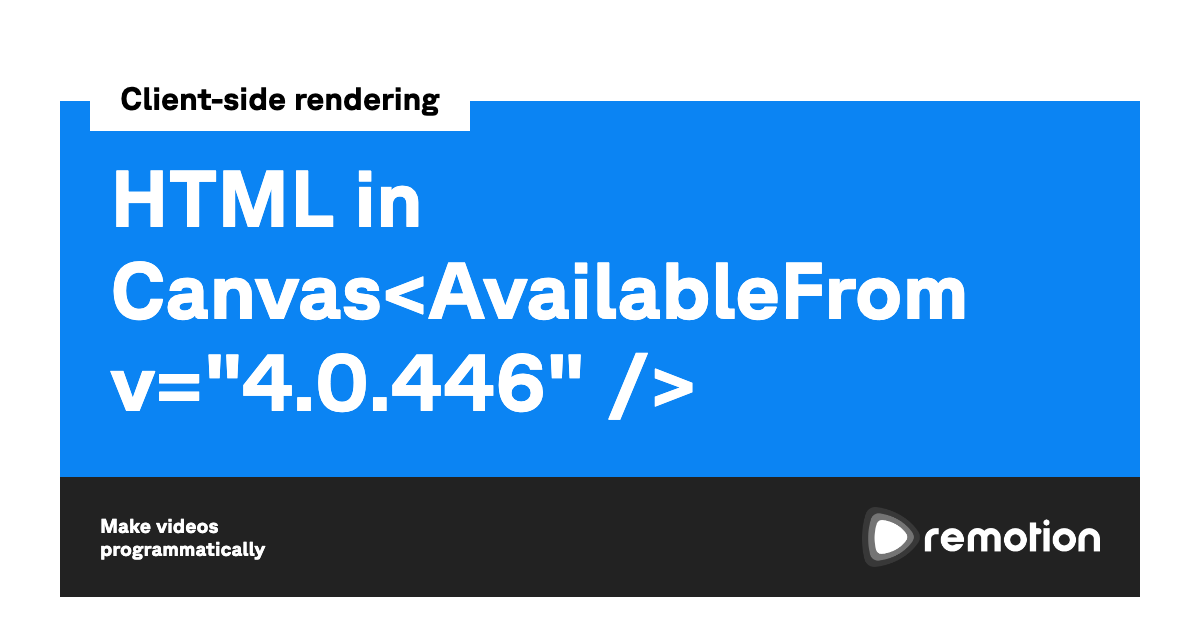
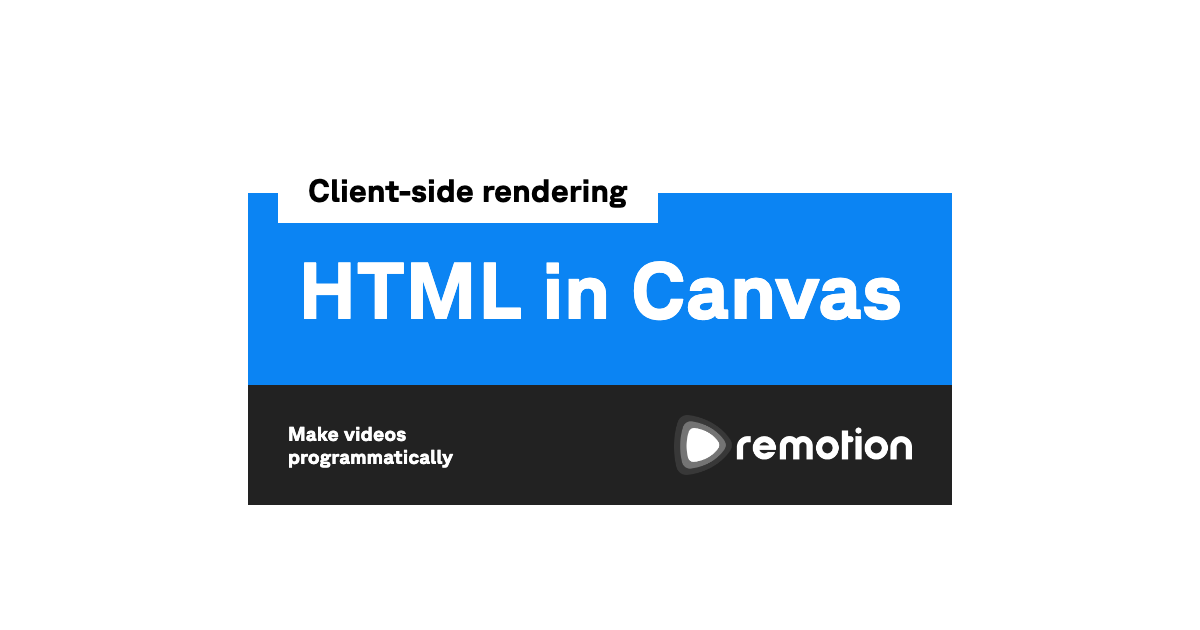
@remotion/web-renderer: Standardize HTML-in-canvas copy and sync docs
Use HTML-in-canvas consistently in logs, Studio, CLI, and docs; refresh
the HTML-in-canvas social card and articles entry; drop the Options alias
from MDX; point allow-html-in-canvas at the client-side-rendering guide.

Made-with: Cursor

diff --git a/packages/docs/src/data/articles.ts b/packages/docs/src/data/articles.ts
@@ -819,6 +819,15 @@ export const articles = [
 		slug: 'client-side-rendering/how-it-works',
 	},
 	{
+		id: 'client-side-rendering/html-in-canvas',
+		title: 'HTML-in-canvas',
+		relativePath: 'docs/client-side-rendering/html-in-canvas.mdx',
+		compId: 'articles-docs-client-side-rendering-html-in-canvas',
+		crumb: 'Client-side rendering',
+		noAi: false,
+		slug: 'client-side-rendering/html-in-canvas',
+	},
+	{
 		id: 'client-side-rendering/index',
 		title: 'Client-side rendering',
 		relativePath: 'docs/client-side-rendering/index.mdx',
@@ -853,15 +862,6 @@ export const articles = [
 		crumb: 'Client-side rendering',
 		noAi: false,
 		slug: 'client-side-rendering/telemetry',
-	},
-	{
-		id: 'client-side-rendering/html-in-canvas',
-		title: 'HTML in Canvas<AvailableFrom v="4.0.447" />',
-		relativePath: 'docs/client-side-rendering/html-in-canvas.mdx',
-		compId: 'articles-docs-client-side-rendering-html-in-canvas',
-		crumb: 'Client-side rendering',
-		noAi: false,
-		slug: 'client-side-rendering/html-in-canvas',
 	},
 	{
 		id: 'clipper',

diff --git a/packages/renderer/src/options/allow-html-in-canvas.tsx b/packages/renderer/src/options/allow-html-in-canvas.tsx
@@ -5,21 +5,21 @@ let allowHtmlInCanvasEnabled = false;
 const cliFlag = 'allow-html-in-canvas' as const;
 
 export const allowHtmlInCanvasOption = {
-	name: 'Allow HTML-in-Canvas for client-side rendering',
+	name: 'Allow HTML-in-canvas for client-side rendering',
 	cliFlag,
 	description: () => (
 		<>
 			When client-side rendering is enabled in the Studio, allow the
-			experimental Chromium HTML-in-Canvas API to be used for capturing frames.
+			experimental Chromium HTML-in-canvas API to be used for capturing frames.
 			See{' '}
-			<a href="https://www.remotion.dev/docs/client-side-rendering/html-in-canvas">
-				HTML in Canvas docs
+			<a href="/docs/client-side-rendering/html-in-canvas">
+				HTML-in-canvas docs
 			</a>
 			.
 		</>
 	),
 	ssrName: null,
-	docLink: 'https://www.remotion.dev/docs/config#setallowhtmlincanvasenabled',
+	docLink: 'https://www.remotion.dev/docs/client-side-rendering/html-in-canvas',
 	type: false as boolean,
 	getValue: ({commandLine}) => {
 		if (commandLine[cliFlag] !== null) {

diff --git a/packages/web-renderer/src/render-still-on-web.tsx b/packages/web-renderer/src/render-still-on-web.tsx
@@ -82,12 +82,12 @@ async function internalRenderStillOnWeb<
 		if (outcome.native) {
 			Internals.Log.warn(
 				{logLevel, tag: '@remotion/web-renderer'},
-				'Using Chromium experimental HTML-in-Canvas (drawElementImage) for this frame. Pixels may differ from the built-in DOM composer. Set allowHtmlInCanvas: false to force software rasterization. See https://github.com/WICG/html-in-canvas',
+				'Using Chromium experimental HTML-in-canvas (drawElementImage) for this frame. Pixels may differ from the built-in DOM composer. Set allowHtmlInCanvas: false to force software rasterization. See https://github.com/WICG/html-in-canvas',
 			);
 		} else if (outcome.shouldWarn) {
 			Internals.Log.warn(
 				{logLevel, tag: '@remotion/web-renderer'},
-				`Not using html-in-canvas: ${outcome.reason}`,
+				`Not using HTML-in-canvas: ${outcome.reason}`,
 			);
 		}
 	};

diff --git a/packages/web-renderer/src/render-media-on-web.tsx b/packages/web-renderer/src/render-media-on-web.tsx
@@ -196,12 +196,12 @@ const internalRenderMediaOnWeb = async <
 		if (outcome.native) {
 			Internals.Log.warn(
 				{logLevel, tag: '@remotion/web-renderer'},
-				'Using Chromium experimental HTML-in-Canvas (drawElementImage) for video frames. See https://github.com/WICG/html-in-canvas',
+				'Using Chromium experimental HTML-in-canvas (drawElementImage) for video frames. See https://github.com/WICG/html-in-canvas',
 			);
 		} else if (outcome.shouldWarn) {
 			Internals.Log.warn(
 				{logLevel, tag: '@remotion/web-renderer'},
-				`Not using html-in-canvas: ${outcome.reason}`,
+				`Not using HTML-in-canvas: ${outcome.reason}`,
 			);
 		}
 	};

diff --git a/packages/docs/src/theme/MDXComponents.js b/packages/docs/src/theme/MDXComponents.js
@@ -13,7 +13,7 @@ import {
 } from '../components/AvailableFrom';
 import {CompatibilityTable} from '../components/CompatibilityTable';
 import {Credits} from '../components/Credits';
-import {Option, Options} from '../components/Options';
+import {Options} from '../components/Options';
 import {SuggestedPrompts} from '../components/SuggestedPrompts';
 import {TsType} from '../components/TsType';
 import RawMarkdownCarrier from './RawMarkdownCarrier/index';
@@ -29,7 +29,6 @@ export default {
 	MinNodeVersion,
 	MinBunVersion,
 	Options,
-	Option,
 	Credits,
 	YouTube,
 	Installation,

diff --git a/packages/cli/src/config/index.ts b/packages/cli/src/config/index.ts
@@ -187,7 +187,7 @@ declare global {
 			enabled: boolean,
 		) => void;
 		/**
-		 * Allow the experimental HTML-in-Canvas capture path in Studio client-side renders.
+		 * Allow the experimental HTML-in-canvas capture path in Studio client-side renders.
 		 * @default false
 		 */
 		readonly setAllowHtmlInCanvasEnabled: (enabled: boolean) => void;

diff --git a/packages/studio/src/components/RenderModal/WebRenderModalAdvanced.tsx b/packages/studio/src/components/RenderModal/WebRenderModalAdvanced.tsx
@@ -171,7 +171,7 @@ export const WebRenderModalAdvanced: React.FC<WebRenderModalAdvancedProps> = ({
 
 			<div style={optionRow}>
 				<div style={label}>
-					Allow HTML-in-Canvas <Spacing x={0.5} />
+					Allow HTML-in-canvas <Spacing x={0.5} />
 					<OptionExplainerBubble id="allowHtmlInCanvasOption" />
 				</div>
 				<div style={rightRow}>

diff --git a/packages/web-renderer/src/take-screenshot.ts b/packages/web-renderer/src/take-screenshot.ts
@@ -55,7 +55,7 @@ export const createLayer = async ({
 			});
 			Internals.Log.verbose(
 				{logLevel, tag: '@remotion/web-renderer'},
-				'html-in-canvas capture failed, falling back to software compose',
+				'HTML-in-canvas capture failed, falling back to software compose',
 				err,
 			);
 		}

diff --git a/packages/docs/src/components/Options.tsx b/packages/docs/src/components/Options.tsx
@@ -27,5 +27,3 @@ export const Options: React.FC<{
 
 	return option.description(cli ? 'cli' : 'ssr') as JSX.Element;
 };
-
-export const Option = Options;
